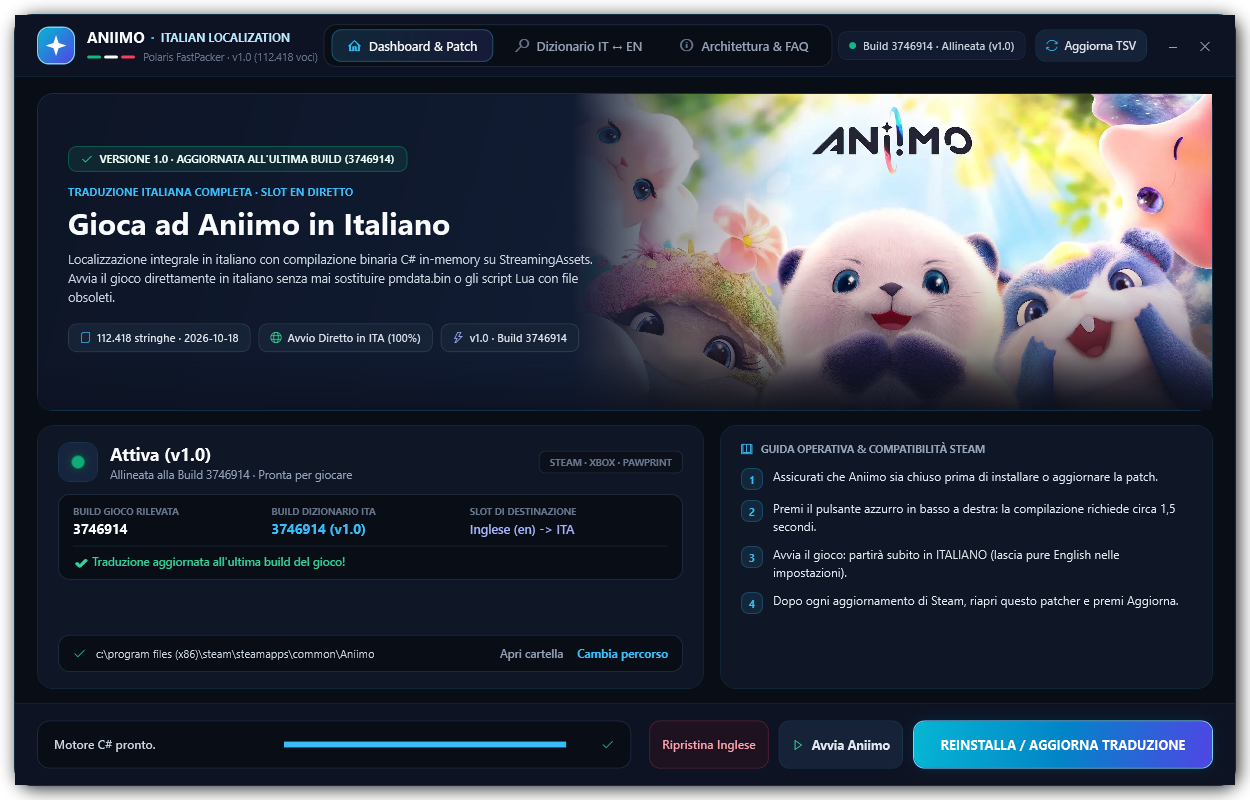
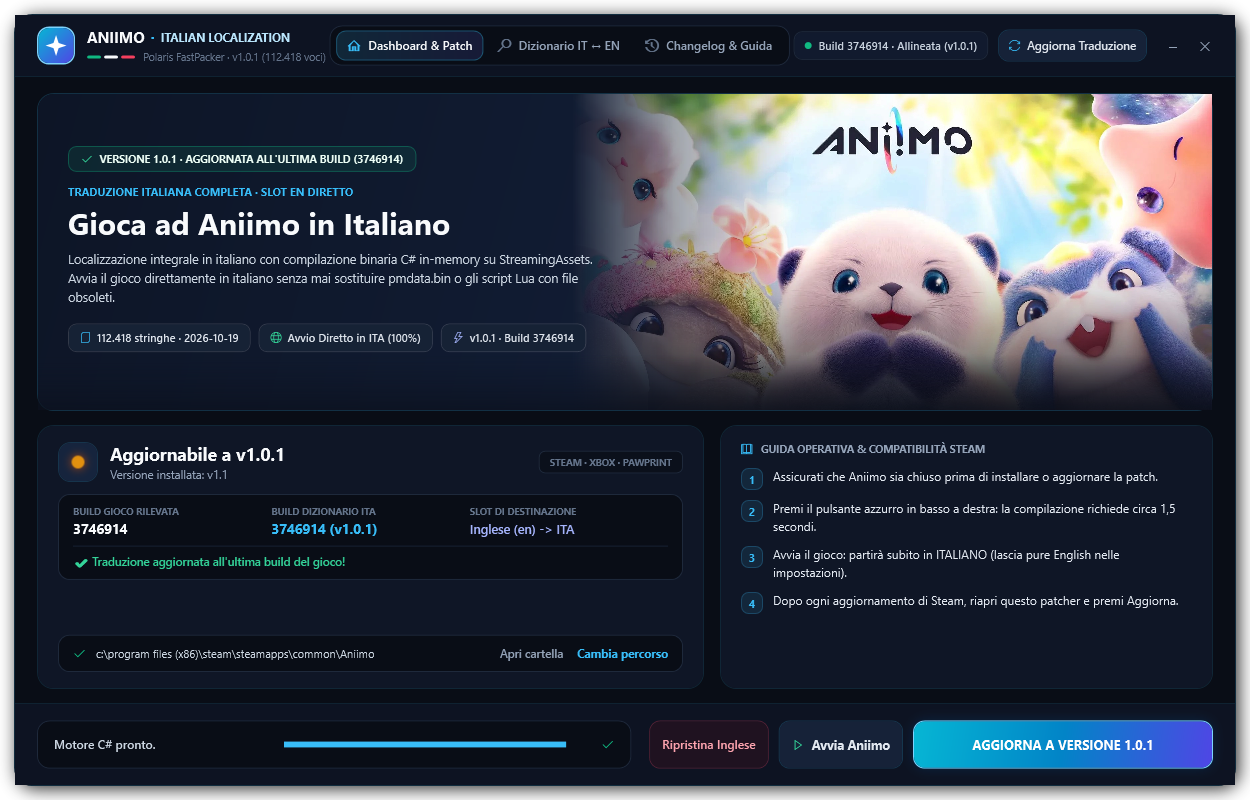
Allineata versione traduzione a v1.0.1: aggiunto changelog, versione.json e sincronizzazione intelligente

diff --git a/CHANGELOG.md b/CHANGELOG.md
@@ -1,0 +1,70 @@
+# 📜 Registro delle Modifiche (Changelog)
+
+Tutte le modifiche e gli aggiornamenti apportati alla traduzione italiana di **Aniimo** sono documentati in questo file.
+
+---
+
+## [1.0.1] - 2026-10-19
+
+### 🌟 Revisione Terminologica Specialistica Globale (968 Perfezionamenti)
+Audit filologico e linguistico condotto da 4 specialisti incrociando l'italiano con i file originali in inglese (`en`), spagnolo (`es_ES`) e francese (`fr_FR`).
+
+#### 🐾 Lore, Creature Aniimo, Allevamento & Dimora (352 correzioni)
+- **Homeland unificato:** eliminata l'inappropriata traduzione letterale *"Patria"* / *"Madrepatria"* (127 stringhe) in favore del termine canonico del gioco **`Dimora`**.
+- **Nomi Propri delle Specie Aniimo:** ripristinati i nomi registrati che erano stati tradotti come parole comuni:
+  - Il drago compagno **`Whelpy`** (da *"Cucciolotto"* / *"Draghetto"*).
+  - **`Stellalord`** (da *"Signore delle Stelle"* / *"Signore Stellare"*).
+  - **`Shrout`** (da *"Cespuglino Panicato"*, *"Grumetto Panicato"*, *"Urlalbero Sbadato"*).
+  - **`Lucklet`** (da *"Fortunello"*), **`Big Chillmut`** (da *"Gelomut grande"*), **`Pouchwisp`** (da *"Borsaspirito"*), **`Wolferno`** (da *"Lupinferno"*).
+- **Incubazione & Cure:** unificata la macchina di cova su **`Incubatrice`** (eliminate le frammentazioni *"Schiuditore"* e *"Incubatore"*).
+- **Interazione *Pet*:** corretto il verbo d'azione *Pet* nel pulsante in **`Accarezza`** (anziché il sostantivo isolato *"Animale"*); nelle schermate dei box corretto *"tutti gli animali domestici"* in **`Tutti gli Aniimo`**.
+- **Varianti e Camper:** normalizzato `Alpha` in **`Alfa`** (31 casi) e unificati i livelli di potenziamento del camper su **`Livello Camper`** (anziché *"Livello RV"*).
+
+#### ⚔ Combattimento, Statistiche & Abilità (230 correzioni)
+- **Standardizzazione Statistiche Difensive:** normalizzate tutte le difese su **`DIF F.`** (Difesa Fisica) e **`DIF M.`** (Difesa Magica), eliminando forme miste con la *P.* inglese (`DIF P.`, `DEF P.`), refusi con doppi punti (`DIF F..`) e sigle isolate (`D. MAG`, `DEF FIS`).
+- **Punti Energia:** convertito l'acronimo inglese residuo `EP` nel corretto **`PE`** (*Punti Energia*).
+- **Tasso Critico:** corretto il calco sgrammaticato *"Tasso di critico"* (18 stringhe) in **`Tasso critico`** / **`Tasso CRIT`**.
+- **I 6 Attributi Primari:** unificata la nomenclatura ufficiale dei parametri base del personaggio:
+  - `Might` -> **Potenza** (eliminati *"Forza"*, *"Possanza"*, *"Vigore"*).
+  - `Gusto` -> **Grinta** (eliminati *"Slancio"*, *"Entusiasmo"*, *"Brio"*).
+  - `Penetration` -> **Penetrazione** (eliminato *"Perforazione"*).
+- **Meccaniche Chiave:**
+  - Abilità definitiva unificata su **`Suprema`** (eliminati i calchi spagnoli *"Definitiva"* e le varianti *"Mossa Finale"*).
+  - Distinzione rigorosa tra **`Vigore`** (la barra *Stamina* per corsa e schivata) e **`Resistenza`** (l'attributo difensivo *Endurance*).
+  - Meccanica *Lock-on* uniformata ad **`Aggancio`** (eliminati *"Puntamento"* e *"Mira"*).
+  - Corretto *"Raggiungi la posizione bersaglio"* nell'appropriato **`Raggiungi la posizione indicata`**.
+  - Status *Burn* corretto da verbo (*"Brucia"*) a sostantivo canonico **`Bruciatura`**, e l'abilità *Burn Breaker* unificata in **`Spezzabruciatura`**.
+
+#### 🗺 Mondo, Esplorazione, Missioni & UI (252 correzioni)
+- **Pianure Ventose (*Breezy Plains*):** risolte 84 traduzioni discordanti (*Pianure Ventilate*, *Pianure Briose*, *Pianure Ariose*, *Pianure della Brezza*) unificandole tutte in **`Pianure Ventose`**.
+- **Cresta delle Mille Zanne & Luoghi:** unificate 23 varianti della *Thousand-Fang Ridge* su **`Cresta delle Mille Zanne`**, la *Zephyr Coast* in **`Costa dello Zefiro`**, e corretto il letterale *"Bosco dei Barbuti"* in **`Boschi di Beardow`**.
+- **Falso Amico Giudiziario *Doctor's Trial*:** eliminato il clamoroso errore *"Processo del Dottore: Fallito"* (da tribunale penale!) in **`Prova del Dottore: Fallita`**.
+- **Template Pin Mappa e Viaggio Rapido:**
+  - Corretto l'errore grammaticale *"Gli Pathfinder"* in **`I Pathfinder`**.
+  - Unificato il termine d'attivazione *Bloom* in **`Bocciolo`** (erano presenti *"lo Sboccio"*, *"la Fioritura"*, *"il Fiore"*).
+- **Falsi Amici UI:**
+  - Corretto *"Dopo aver completato la festa"* (Party) in **`Dopo aver completato la squadra`**.
+  - Corretto il pulsante di uscita da un dungeon *"Lascia"* in **`Esci`**.
+  - Opzioni telecamera unificate in **`Inverti controlli verticali/orizzontali telecamera`**.
+
+#### 📦 Oggetti, Materiali, Fabbricazione ed Economia (148 correzioni)
+- **Valute Primarie:** corretto l'errore dei *Credits* (la valuta di gioco) scambiati per titoli di coda cinematografici (**"Riconoscimenti"**) in **`Crediti`**; la valuta energetica è stata unificata in **`Primegia`** (eliminato l'involontario refuso *"Consuma Primangia"*!).
+- **Pulsanti di Fabbricazione:**
+  - Il pulsante *Cook* incredibilmente tradotto con lo chef di cucina (**"Cuoco"**) è stato corretto nel verbo d'azione **`Cucina`**.
+  - Corretta l'allucinazione *"Fabbricatore di Aniibozzoli"* in **`Fabbricatore di Aniipod`**.
+- **Equipaggiamento *Held Items*:** eliminato il calco *"Strumenti Trattenuti"* (come fossero pacchi doganali sequestrati) in favore del corretto **`Strumenti Tenuti`**.
+- **Falso Amico *Coilstrike Club*:** la palestra di pugilato di Tysen (*Club Colpospirale*), scambiata a turno per un'arma (*"Mazza Spirafulmine"*, *"Clava a spirale"*), è stata riallineata a **`Club Colpospirale`** e i relativi tagliandi a **`Coupon Colpospirale`**.
+- **Minerali:** corretto il minerale *Wood Tin* da *"Latta di legno"* (un barattolo di latta in legno!) nell'effettivo minerale fibroso **`Stagno di legno`**; unificata la *Glintstone* in **`Brillapietra`**.
+- **Parole Fuse:** separati tutti i glitch di traduzione automatica (*"Baccalce"* -> *Bacca dolce*, *"Albadentidileone"* -> *Denti d'aurora*, *"sussurridelcrepuscolo"* -> *sussurri del crepuscolo*).
+
+---
+
+## [1.0.0] - 2026-10-18
+
+### 🚀 Release Iniziale Ufficiale
+- **Localizzazione Completa al 100%:** 112.418 stringhe allineate alla Build `3746914`.
+- **Avvio Diretto in Italiano:** la traduzione sostituisce lo slot lingua inglese (`en`), avviando il gioco direttamente in italiano senza modifiche ai menu.
+- **Compilatore C# In-Memory (`AniimoFastPacker`):** patcha `StreamingAssets` al volo in 1,5 secondi senza sovrascrivere o distribuire file binari protetti (`pmdata.bin` o script Lua).
+- **Interfaccia Grafica Moderna (*Polaris UI*):** launcher a schede orizzontali con rilevamento automatico del percorso di Steam/Xbox/Pawprint, verifica di build in tempo reale e monitoraggio dello stato.
+- **Dizionario Bilingue Interattivo (IT ↔ EN):** oltre 18.000 termini ricercabili in tempo reale all'interno del launcher per facilitare la consultazione di wiki e guide internazionali.
+- **Sistema di Ripristino Sicuro:** disinstallazione della traduzione e ripristino dell'inglese originale della build in 1 clic.

diff --git a/README.md b/README.md
@@ -33,7 +33,8 @@
   - Genera al volo l'archivio `LuaScripts.xdf` aggiornando l'indice `LuaScripts.xdt` in meno di 1,5 secondi.
   - **Immune a rotture post-aggiornamento**: se Steam aggiorna il gioco con nuove meccaniche o script, l'installer inietta la traduzione direttamente nella nuova versione preservandone il codice intatto.
 - 📖 **Dizionario Bilingue Integrato (IT ↔ EN)**: Oltre 18.000 termini ufficiali (oggetti, abilità, materiali, luoghi e creature) ricercabili istantaneamente all'interno del launcher per consultare wiki, guide e build in inglese senza dover cambiare la lingua di gioco.
-- ☁ **Sincronizzazione Automatica Cloud**: Pulsante *Aggiorna TSV* dedicato per verificare e scaricare in pochi istanti gli ultimi affinamenti del dizionario direttamente da GitHub, senza dover riscaricare l'intero pacchetto ZIP.
+- ☁ **Sincronizzazione Intelligente Cloud**: Controllo versione ultraleggero (~300 byte via `versione.json`) per verificare se la traduzione su GitHub è stata aggiornata. Scarica il file TSV solo in caso di effettive modifiche (zero sprechi di banda e zero API rate-limit).
+- 📜 **Changelog Visivo Integrato**: Scheda dedicata *Changelog & Guida* nel launcher e file [CHANGELOG.md](CHANGELOG.md) per consultare tutte le migliorie e i 968 perfezionamenti terminologici apportati.
 - ⏪ **Ripristino Sicuro in 1 Clic**: Ripristina i file originali in inglese istantaneamente, senza bisogno di verificare l'integrità dei file su Steam o riscaricare dati.
 
 ---
@@ -51,11 +52,21 @@ Grazie al motore di indicizzazione interno, la scheda **Dizionario IT ↔ EN** i
 
 ---
 
+## 📜 Registro delle Modifiche (Changelog)
+
+<p align="center">
+  <img src="docs/preview_changelog.png" alt="Changelog e Guida Tecnica nel Launcher" width="900" style="border-radius: 8px; box-shadow: 0 8px 30px rgba(0,0,0,0.5);">
+</p>
+
+Tutte le modifiche, le revisioni terminologiche e i miglioramenti sono documentati dettagliatamente nel file [**CHANGELOG.md**](CHANGELOG.md) e direttamente all'interno della scheda **Changelog & Guida** del launcher.
+
+---
+
 ## 📊 Stato della Traduzione e Copertura
 
 | Parametro | Dettaglio |
 | :--- | :--- |
-| **Versione Traduzione** | **v1.0** (19 Ottobre 2026 - Revisione Terminologica Specialistica Applicata) |
+| **Versione Traduzione** | **v1.0.1** (19 Ottobre 2026 - Revisione Terminologica Specialistica Applicata) |
 | **Build Gioco Verificata** | **Build `3746914`** |
 | **Voci Tradotte** | **112.418 su 112.418** (100% copertura verificata) |
 | **Nomi Creature Aniimo** | Nomi ufficiali preservati e allineati al canone |
@@ -69,8 +80,6 @@ Grazie al motore di indicizzazione interno, la scheda **Dizionario IT ↔ EN** i
 ### Metodo 1: Installazione con Interfaccia Grafica (Consigliato)
 
 1. Scarica l'archivio **`Aniimo_Traduzione_ITA_v1.0.zip`** dalla pagina [Releases](https://github.com/NobodySan97/Aniimo-ITA/releases/latest).
-
-
 2. Estrai l'archivio in una cartella a piacere (es. sul Desktop).
 3. Assicurati che **Aniimo sia chiuso**.
 4. Fai doppio clic su **`Installa Traduzione ITA.bat`**.
@@ -89,10 +98,10 @@ Per gli utenti avanzati o per automatizzare l'installazione, è possibile esegui
 powershell.exe -NoProfile -ExecutionPolicy Bypass -File "dati\installer.ps1" -Install
 
 # Ripristino della lingua inglese originale
-powershell.exe -NoProfile -ExecutionPolicy Bypass -File "dati\installer.ps1" -Restore
+powershell.exe -NoProfile -ExecutionPolicy Bypass -File "dati\installer.ps1" -Uninstall
 
-# Verifica e sincronizzazione aggiornamenti da GitHub
-powershell.exe -NoProfile -ExecutionPolicy Bypass -File "dati\installer.ps1" -CheckUpdate
+# Verifica e sincronizzazione intelligente da GitHub (senza interfaccia)
+powershell.exe -NoProfile -ExecutionPolicy Bypass -File "dati\installer.ps1" -UpdateTsv
 ```
 
 ---
